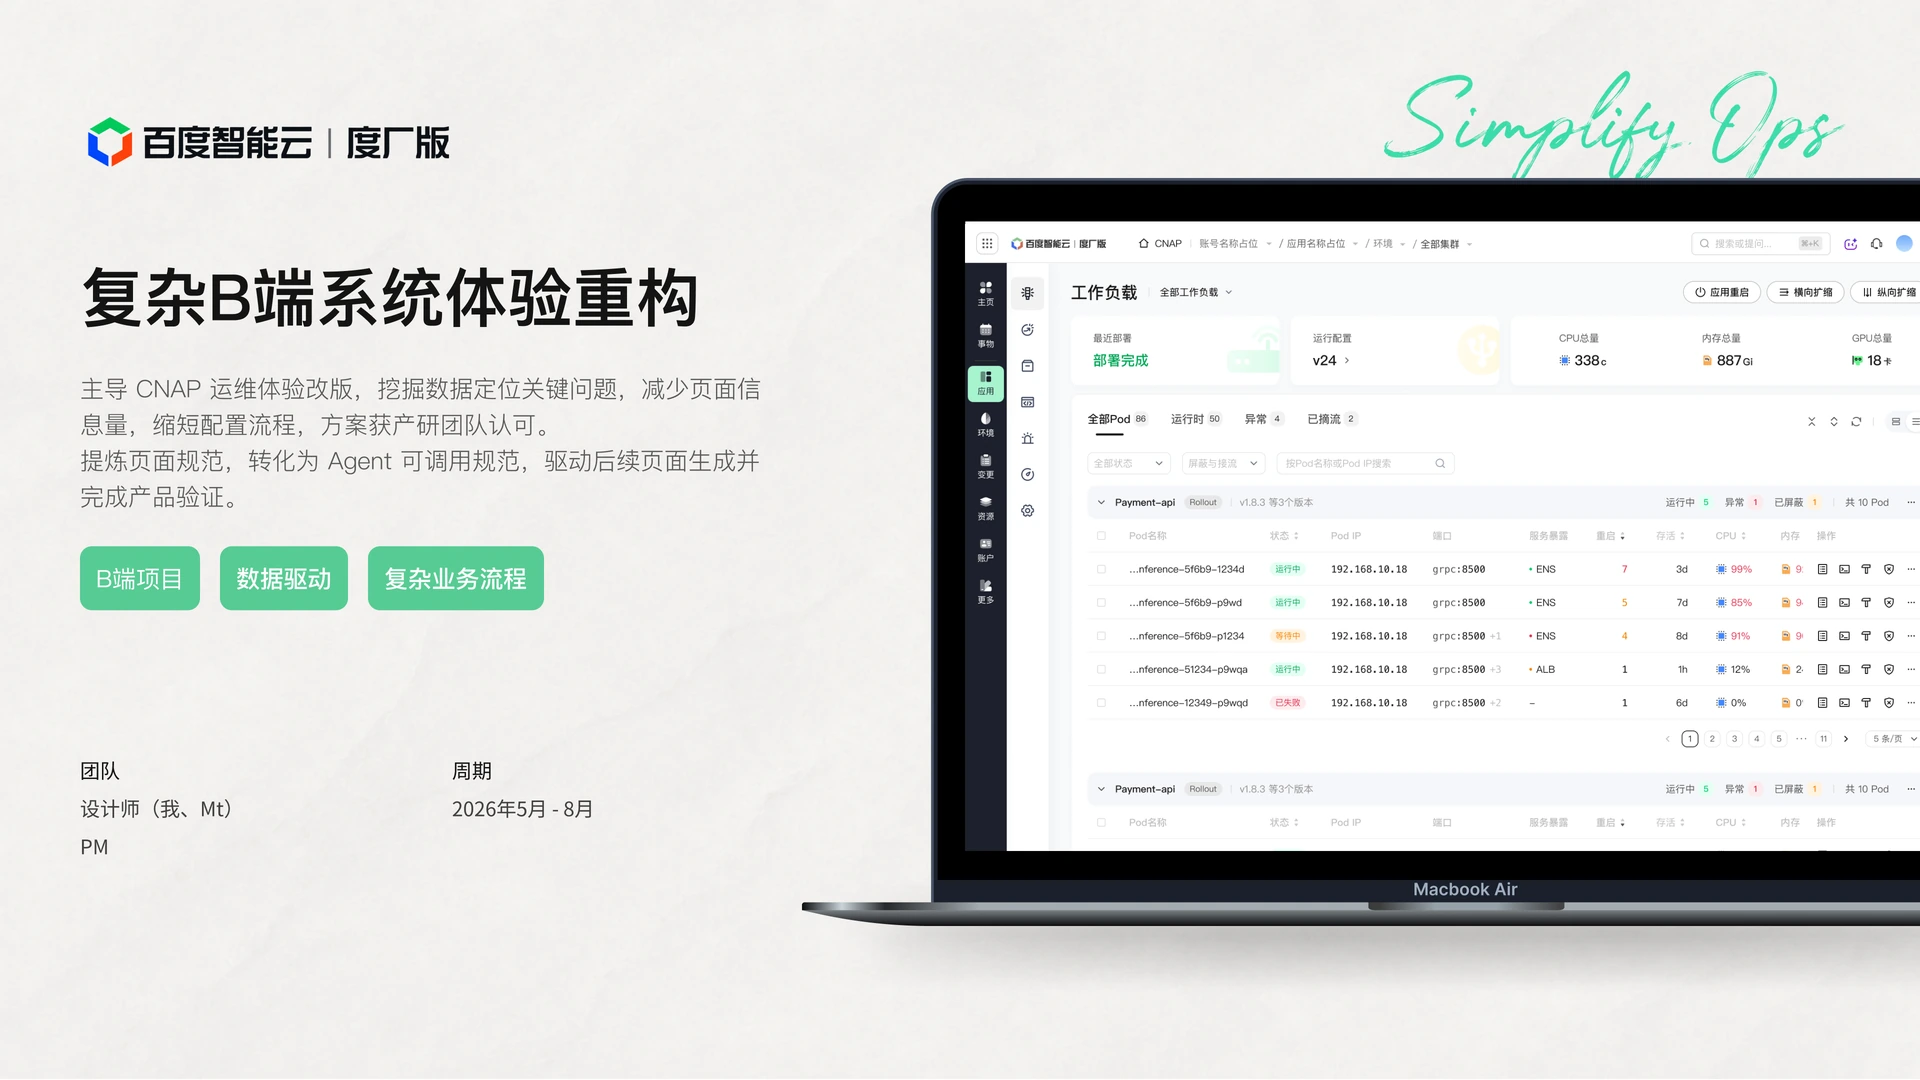
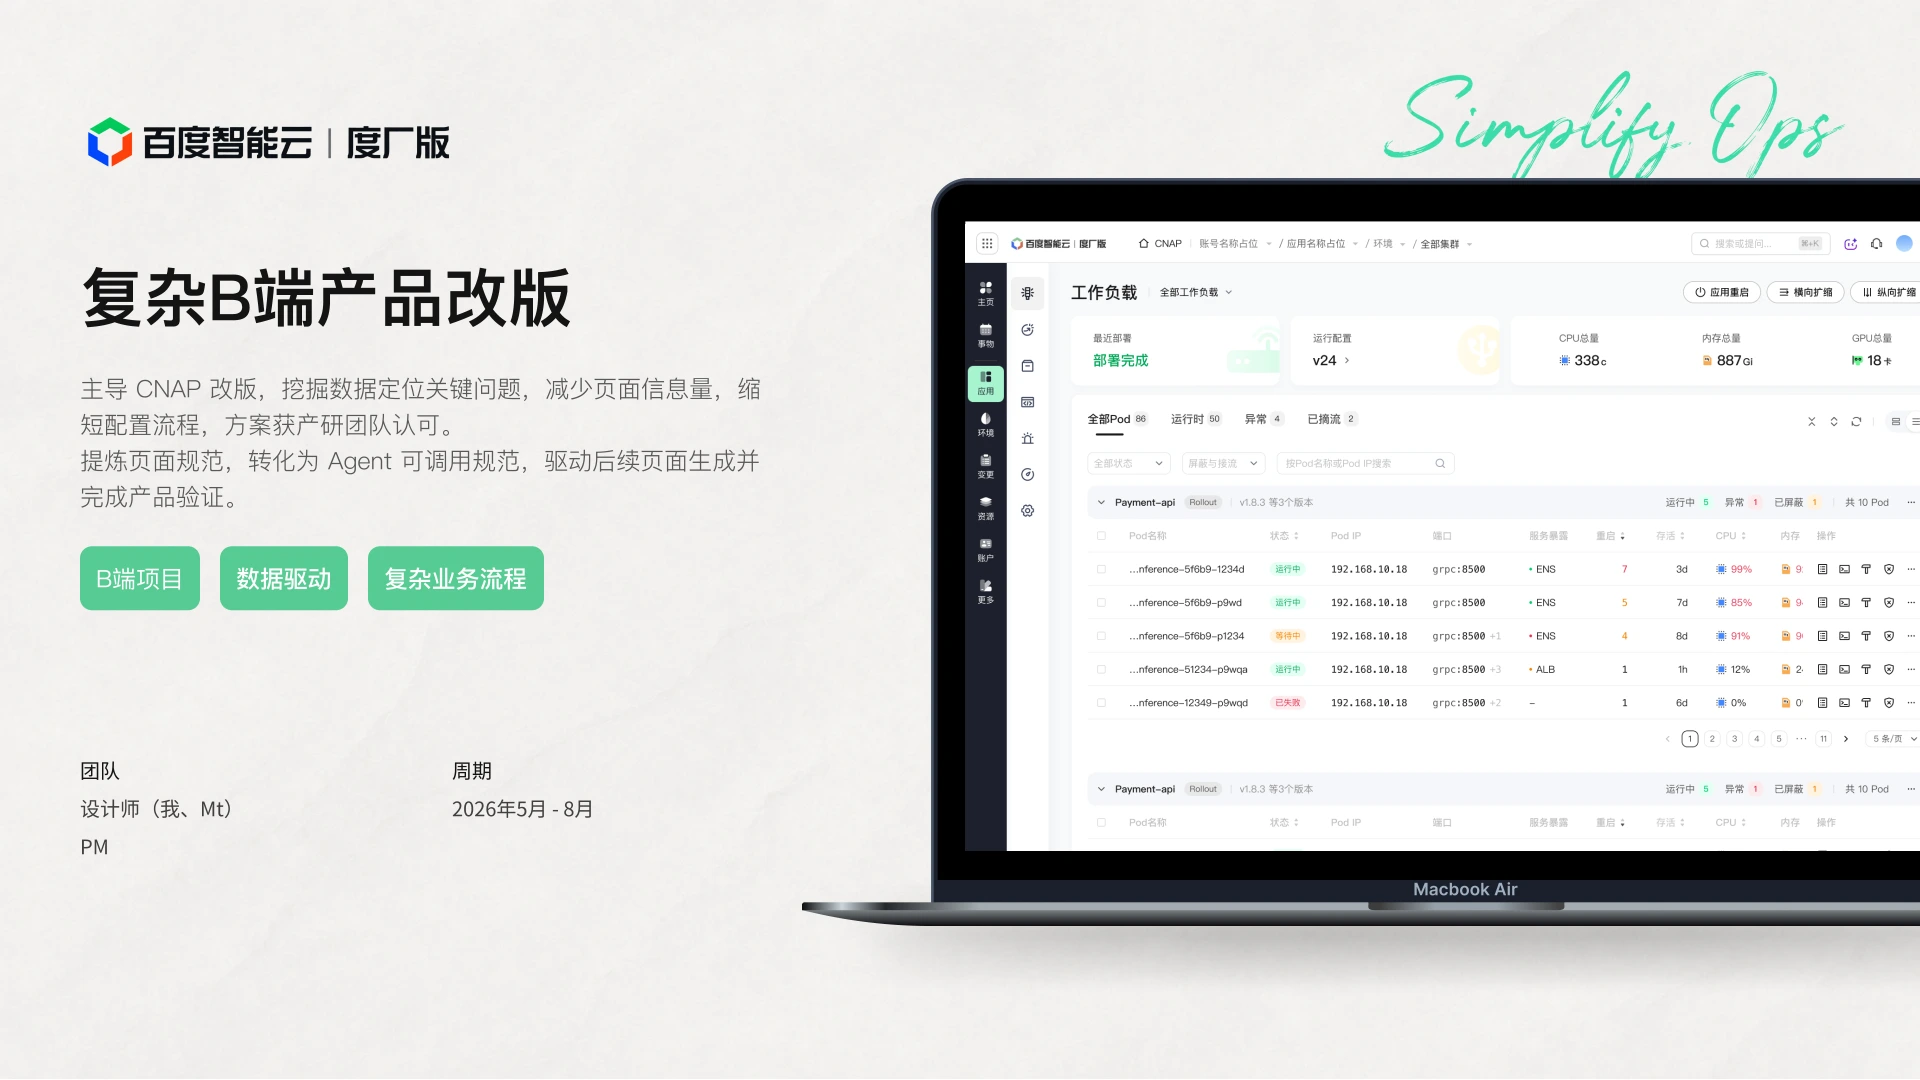
更新 CNAP 标题与案例页素材

Changed region(s): [[0.0312, 0.3361, 0.4062, 0.4278], [0.1562, 0.2444, 0.375, 0.3056]]

diff --git a/index.html b/index.html
@@ -59,7 +59,7 @@
           <div class="hero-project-stack" aria-label="精选项目预览">
             <a class="hero-project-stack-card hero-stack-remi" href="pages/case.html" aria-label="查看主动式 AI 记忆助手项目"><img src="assets/hero-devices/image_2.webp?v=20260908-1" alt="Remi 主动式 AI 记忆助手界面" width="1800" height="1130" decoding="async" /><span class="hero-project-tooltip"><b>商汤科技 主动 AI 记忆助手</b><small>解决 AI 交付物“理解门槛高，用不上”问题</small></span></a>
             <a class="hero-project-stack-card hero-stack-dodo" href="pages/dodo.html" aria-label="查看 AI 设计工作流实践与复盘项目"><img src="assets/dodo-product-assets-cropped.webp?v=20260908-1" alt="AI 设计工作流实践与复盘产物页面" width="1500" height="918" decoding="async" /><span class="hero-project-tooltip"><b>百度 AI 设计工作流实践与复盘</b><small>从用户反馈到需求上线，将设计判断沉淀为可复用的规范与 Skills</small></span></a>
-            <a class="hero-project-stack-card hero-stack-cnap" href="pages/cnap-case.html" aria-label="查看 CNAP 云原生工作负载管理项目"><img src="assets/hero-projects/cnap-desktop.webp?v=20260908-1" alt="CNAP 云原生工作负载管理界面" width="1500" height="948" decoding="async" /><span class="hero-project-tooltip"><b>百度 复杂B端系统体验重构</b><small>通过用户调研重构云原生部署与运维体验，降低平台使用门槛与排障成本</small></span></a>
+            <a class="hero-project-stack-card hero-stack-cnap" href="pages/cnap-case.html" aria-label="查看 CNAP 云原生工作负载管理项目"><img src="assets/hero-projects/cnap-desktop.webp?v=20260908-1" alt="CNAP 云原生工作负载管理界面" width="1500" height="948" decoding="async" /><span class="hero-project-tooltip"><b>百度 复杂B端产品改版</b><small>通过用户调研重构云原生部署与运维体验，降低平台使用门槛与排障成本</small></span></a>
             <a class="hero-project-stack-card hero-stack-xhs" href="pages/xiaohongshu.html" aria-label="查看本地生活项目"><img src="assets/hero-projects/image_1.webp?v=20260908-1" alt="小红书本地生活项目界面" width="1600" height="3321" decoding="async" /><span class="hero-project-tooltip"><b>本地生活体验升级</b><small>提升用户从种草到下单核销的转化效率</small></span></a>
             <a class="hero-project-stack-card hero-stack-reading" href="pages/skip-read.html" aria-label="查看职场人阅读学习 APP 项目"><img class="hero-stack-reading-content" src="assets/hero-projects/image_3.webp?v=20260908-1" alt="职场人阅读学习 APP 界面" width="1600" height="3469" decoding="async" /><img class="hero-stack-reading-frame" src="assets/hero-projects/legacy-reading-frame.webp" alt="" /><span class="hero-project-tooltip"><b>碎片时间下的快速阅读 APP</b><small>提升用户的平均阅读时间与留存</small></span></a>
           </div>
@@ -219,7 +219,7 @@
           <div class="showcase-heading section-reveal"><h2 class="section-copy-step" id="projects-title">项目</h2></div>
           <a class="project-showcase project-showcase-cnap" id="project-cnap" href="pages/cnap-case.html" data-project-hotspot>
             <div class="showcase-copy">
-              <h3>百度 复杂B端系统体验重构</h3>
+              <h3>百度 复杂B端产品改版</h3>
               <p>通过用户调研重构云原生部署与运维体验，降低平台使用门槛与排障成本</p>
               <ul><li>B端</li><li>云原生</li><li>用户调研</li><li>可交互Demo</li></ul>
               <img class="cnap-signature" src="assets/simplify-ops-signature.webp" alt="Simplify Ops" width="3012" height="800" loading="lazy" decoding="async" aria-hidden="true" />

diff --git a/pages/cnap-case.html b/pages/cnap-case.html
@@ -16,12 +16,12 @@
   <body class="cnap-case-page case-deck-page">
     <header class="project-nav">
       <a class="project-back" href="../index.html" aria-label="返回首页"><span aria-hidden="true">←</span><span class="project-back-label">返回首页</span></a>
-      <p class="project-nav-title">复杂B端系统体验重构</p>
+      <p class="project-nav-title">复杂B端产品改版</p>
       <label class="project-view-switch"><span>当前展示</span><select aria-label="切换 CNAP 项目展示" data-view-switch data-current="cnap-case.html"><option value="cnap-case.html" selected>项目案例</option><option value="cnap-research.html">交付物</option><option value="../demos/workload-demo/index.html">交互 Demo</option></select></label>
     </header>
     <main id="top">
       <section class="slides" aria-label="CNAP 云原生工作负载管理项目案例">
-        <img src="../assets/cnap-case/page-01-update.webp?v=20260928-1" alt="CNAP 云原生工作负载管理项目概览" data-section-kicker="项目开篇" data-section-title="复杂 B 端系统体验重构" width="1920" height="1080" fetchpriority="high" decoding="async" />
+        <img src="../assets/cnap-case/page-01-update.webp?v=20261007-1" alt="CNAP 云原生工作负载管理项目概览" data-section-kicker="项目开篇" data-section-title="复杂B端产品改版" width="1920" height="1080" fetchpriority="high" decoding="async" />
         <img data-src="../assets/cnap-case/page-02-replacement-20260929.webp?v=20260929-1" alt="CNAP 是什么：后端用户在云上发布应用，并保障它稳定运行；从改版原因到业务目标的流程概览" data-section-kicker="CNAP 是什么" data-section-title="后端用户在云上发布应用，并保障它稳定运行" width="1920" height="1080" loading="lazy" decoding="async" />
         <img data-src="../assets/cnap-case/page-03-replacement-20260929.webp?v=20260929-1" alt="CNAP 初期难点：Demo 依据不清，满意度数据定位出运行时与设计布局两大体验短板" data-section-kicker="初期难点" data-section-title="Demo 看似完整，但依据不明" width="1920" height="1080" loading="lazy" decoding="async" />
         <img data-src="../assets/cnap-case/page-04-replacement-20260929.webp?v=20260929-1" alt="访谈4名用户，明确页面信息看不懂、页面规范需要更新两类改版问题" data-section-kicker="用户访谈" data-section-title="访谈4名用户，明确改版问题" width="1920" height="1080" loading="lazy" decoding="async" />

diff --git a/pages/dodo.html b/pages/dodo.html
@@ -43,7 +43,7 @@
         </div>
         <img id="dodo-slide-2" data-src="../assets/dodo/pages/page-02.webp?v=20261002-01" alt="设计师自主完成需求，为误删提供回退，并把小需求沉淀成 Loop 工作流" width="1920" height="1080" loading="lazy" decoding="async" />
         <img id="dodo-slide-3" data-src="../assets/dodo/pages/page-03.webp?v=20261002-01" alt="哪些需求适合走这套工作流" width="1920" height="1080" loading="lazy" decoding="async" />
-        <img id="dodo-slide-4" data-src="../assets/dodo/pages/page-04.webp?v=20261002-01" alt="需要补齐哪些规范？" width="1920" height="1080" loading="lazy" decoding="async" />
+        <img id="dodo-slide-4" data-src="../assets/dodo/pages/page-04.webp?v=20261004-01" alt="需要补齐哪些规范？" width="1920" height="1080" loading="lazy" decoding="async" />
         <img id="dodo-slide-5" data-src="../assets/dodo/pages/page-05.webp" alt="Agent 体验原则" width="1920" height="1080" loading="lazy" decoding="async" />
         <img id="dodo-slide-6" data-src="../assets/dodo/pages/page-06.webp?v=20260922-1" alt="规范与元素层知识体系基座" width="1920" height="1080" loading="lazy" decoding="async" />
         <img id="dodo-slide-7" data-src="../assets/dodo/pages/page-07.webp" alt="Agent 体验原则与产品规范应用结果" width="1920" height="1080" loading="lazy" decoding="async" />

diff --git a/demos/workload-demo/index.html b/demos/workload-demo/index.html
@@ -171,7 +171,7 @@
 <body>
   <header class="portfolio-project-nav project-nav">
     <a class="portfolio-project-back project-back" href="../../index.html" aria-label="返回首页"><span aria-hidden="true">←</span><span class="project-back-label">返回首页</span></a>
-    <span class="portfolio-project-title project-nav-title">复杂B端系统体验重构</span>
+    <span class="portfolio-project-title project-nav-title">复杂B端产品改版</span>
     <label class="portfolio-view-switch"><span>当前展示</span><select aria-label="切换 CNAP 项目展示" data-view-switch data-current="index.html"><option value="../../pages/cnap-case.html">项目案例</option><option value="../../pages/cnap-research.html">交付物</option><option value="index.html" selected>交互 Demo</option></select></label>
   </header>
   <section class="portfolio-mobile-fallback" aria-labelledby="mobileFallbackTitle">

diff --git a/pages/cnap-research.html b/pages/cnap-research.html
@@ -112,7 +112,7 @@
   <body class="deliverables-page cnap-research-page" data-project-theme="cnap">
     <header class="project-nav">
       <a class="project-back" href="../index.html" aria-label="返回首页"><span aria-hidden="true">←</span><span class="project-back-label">返回首页</span></a>
-      <p class="project-nav-title">复杂B端系统体验重构</p>
+      <p class="project-nav-title">复杂B端产品改版</p>
       <label class="project-view-switch"><span>当前展示</span><select aria-label="切换 CNAP 项目展示" data-view-switch data-current="cnap-research.html"><option value="cnap-case.html">项目案例</option><option value="cnap-research.html" selected>交付物</option><option value="../demos/workload-demo/index.html">交互 Demo</option></select></label>
     </header>
     <main class="deliverables-main">
